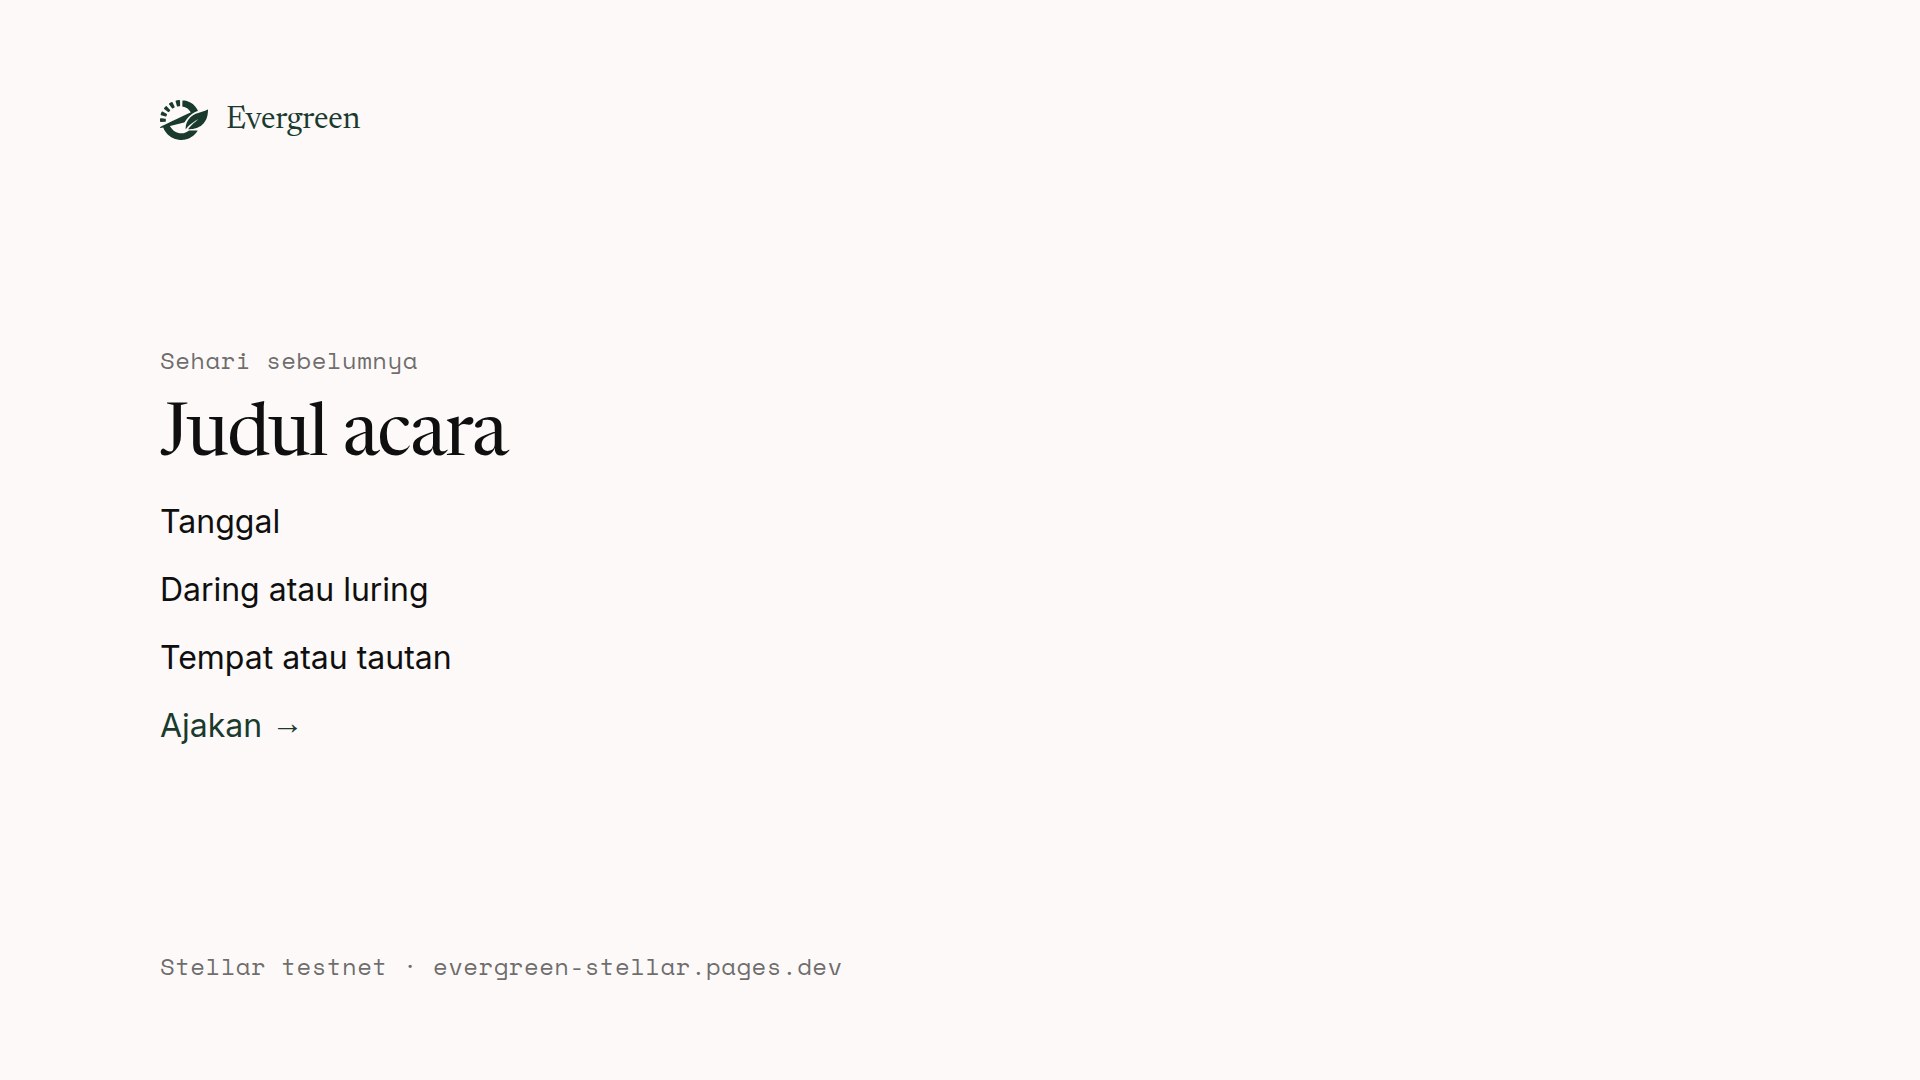
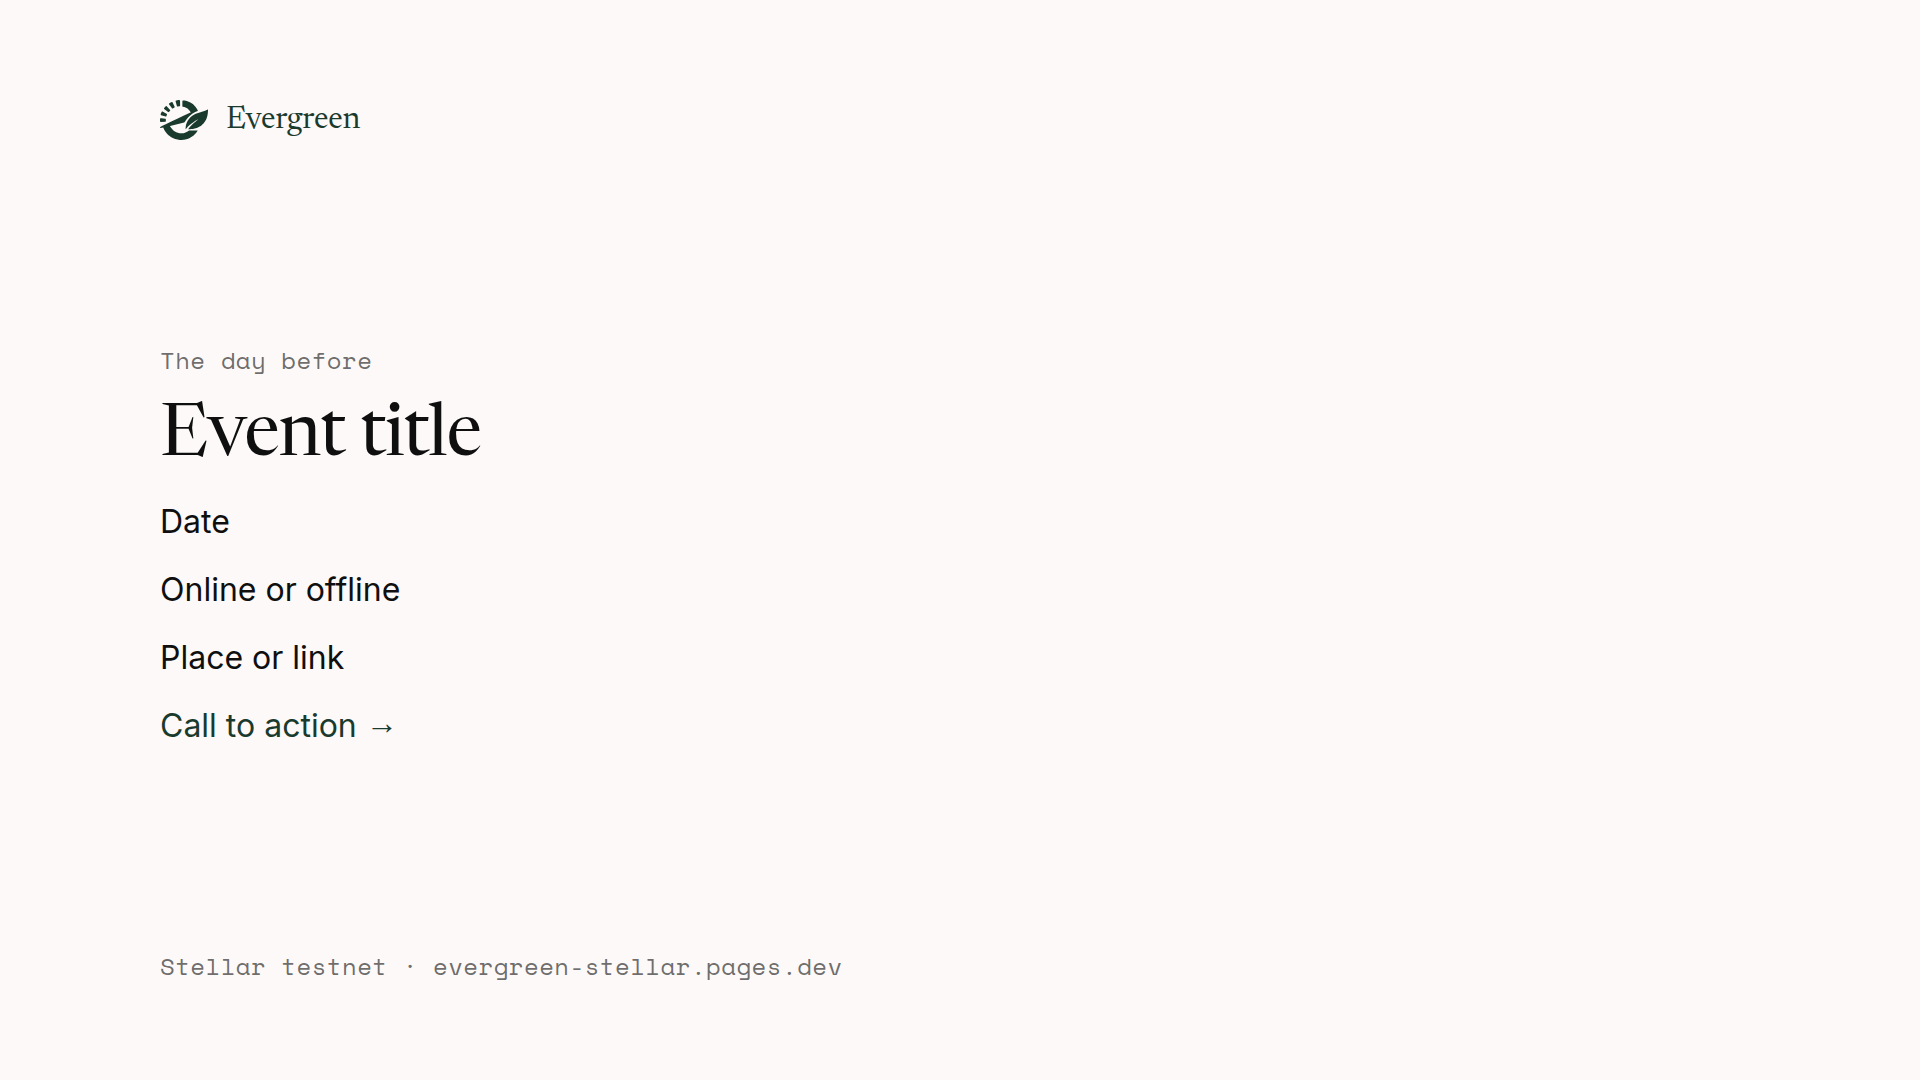
docs: switch SOW 2 workshop templates to English [PH2-E3-09] (#627)
* docs: switch SOW 2 workshop templates to English [PH2-E3-09]

Fatih, 15 Nov 2026: workshop slides and event cards are English.
Placeholders stay placeholders. claims-and-copy.md does not document this copy.

* docs: format the English event-card templates [PH2-E3-09]

---------

Changed region(s): [[0.0625, 0.4583, 0.2188, 0.7028], [0.0625, 0.3056, 0.2812, 0.4278]]

diff --git a/web-reference/design-language/source/templates/event-reminder-landscape.html b/web-reference/design-language/source/templates/event-reminder-landscape.html
@@ -10,7 +10,7 @@
     <script>
       if (location.search.includes('guides')) document.documentElement.classList.add('guides');
     </script>
-    <title>Landscape 1920 × 1080 — Sehari sebelumnya</title>
+    <title>Landscape 1920 × 1080 — The day before</title>
   </head>
   <body>
     <!-- Day-before reminder. Every content line is a placeholder. Replace it; do not invent an event. -->
@@ -32,12 +32,14 @@
         </div>
         <div class="spacer"></div>
         <div style="display: grid; gap: calc(10px * var(--k)); max-width: 36ch">
-          <p class="label muted">Sehari sebelumnya</p>
-          <p class="display" style="max-width: 16ch">Judul acara</p>
-          <p class="lead">Tanggal</p>
-          <p class="lead">Daring atau luring</p>
-          <p class="lead">Tempat atau tautan</p>
-          <p class="lead" style="color: var(--pine)">Ajakan <span aria-hidden="true">→</span></p>
+          <p class="label muted">The day before</p>
+          <p class="display" style="max-width: 16ch">Event title</p>
+          <p class="lead">Date</p>
+          <p class="lead">Online or offline</p>
+          <p class="lead">Place or link</p>
+          <p class="lead" style="color: var(--pine)">
+            Call to action <span aria-hidden="true">→</span>
+          </p>
         </div>
         <div class="spacer"></div>
         <p class="label muted">Stellar testnet · evergreen-stellar.pages.dev</p>

diff --git a/web-reference/design-language/source/templates/event-reminder-square.html b/web-reference/design-language/source/templates/event-reminder-square.html
@@ -10,7 +10,7 @@
     <script>
       if (location.search.includes('guides')) document.documentElement.classList.add('guides');
     </script>
-    <title>Square 1080 × 1080 — Sehari sebelumnya</title>
+    <title>Square 1080 × 1080 — The day before</title>
   </head>
   <body>
     <!-- Day-before reminder. Every content line is a placeholder. Replace it; do not invent an event. -->
@@ -32,12 +32,14 @@
         </div>
         <div class="spacer"></div>
         <div style="display: grid; gap: calc(10px * var(--k)); max-width: 36ch">
-          <p class="label muted">Sehari sebelumnya</p>
-          <p class="display" style="max-width: 16ch">Judul acara</p>
-          <p class="lead">Tanggal</p>
-          <p class="lead">Daring atau luring</p>
-          <p class="lead">Tempat atau tautan</p>
-          <p class="lead" style="color: var(--pine)">Ajakan <span aria-hidden="true">→</span></p>
+          <p class="label muted">The day before</p>
+          <p class="display" style="max-width: 16ch">Event title</p>
+          <p class="lead">Date</p>
+          <p class="lead">Online or offline</p>
+          <p class="lead">Place or link</p>
+          <p class="lead" style="color: var(--pine)">
+            Call to action <span aria-hidden="true">→</span>
+          </p>
         </div>
         <div class="spacer"></div>
         <p class="label muted">Stellar testnet · evergreen-stellar.pages.dev</p>

diff --git a/web-reference/design-language/source/templates/event-reminder-story.html b/web-reference/design-language/source/templates/event-reminder-story.html
@@ -10,7 +10,7 @@
     <script>
       if (location.search.includes('guides')) document.documentElement.classList.add('guides');
     </script>
-    <title>Story 1080 × 1920 — Sehari sebelumnya</title>
+    <title>Story 1080 × 1920 — The day before</title>
   </head>
   <body>
     <!-- Day-before reminder. Every content line is a placeholder. Replace it; do not invent an event. -->
@@ -32,12 +32,14 @@
         </div>
         <div class="spacer"></div>
         <div style="display: grid; gap: calc(10px * var(--k)); max-width: 36ch">
-          <p class="label muted">Sehari sebelumnya</p>
-          <p class="display" style="max-width: 16ch">Judul acara</p>
-          <p class="lead">Tanggal</p>
-          <p class="lead">Daring atau luring</p>
-          <p class="lead">Tempat atau tautan</p>
-          <p class="lead" style="color: var(--pine)">Ajakan <span aria-hidden="true">→</span></p>
+          <p class="label muted">The day before</p>
+          <p class="display" style="max-width: 16ch">Event title</p>
+          <p class="lead">Date</p>
+          <p class="lead">Online or offline</p>
+          <p class="lead">Place or link</p>
+          <p class="lead" style="color: var(--pine)">
+            Call to action <span aria-hidden="true">→</span>
+          </p>
         </div>
         <div class="spacer"></div>
         <p class="label muted">Stellar testnet · evergreen-stellar.pages.dev</p>

diff --git a/web-reference/design-language/source/templates/event-recap-landscape.html b/web-reference/design-language/source/templates/event-recap-landscape.html
@@ -10,7 +10,7 @@
     <script>
       if (location.search.includes('guides')) document.documentElement.classList.add('guides');
     </script>
-    <title>Landscape 1920 × 1080 — Setelah acara</title>
+    <title>Landscape 1920 × 1080 — After the event</title>
   </head>
   <body>
     <!-- Post-event recap. Every content line is a placeholder. No attendance figure, no fee. -->
@@ -32,12 +32,14 @@
         </div>
         <div class="spacer"></div>
         <div style="display: grid; gap: calc(10px * var(--k)); max-width: 36ch">
-          <p class="label muted">Setelah acara</p>
-          <p class="display" style="max-width: 16ch">Judul acara</p>
-          <p class="lead">Tanggal</p>
-          <p class="lead">Daring atau luring</p>
-          <p class="lead">Tempat atau tautan</p>
-          <p class="lead" style="color: var(--pine)">Ajakan <span aria-hidden="true">→</span></p>
+          <p class="label muted">After the event</p>
+          <p class="display" style="max-width: 16ch">Event title</p>
+          <p class="lead">Date</p>
+          <p class="lead">Online or offline</p>
+          <p class="lead">Place or link</p>
+          <p class="lead" style="color: var(--pine)">
+            Call to action <span aria-hidden="true">→</span>
+          </p>
         </div>
         <div class="spacer"></div>
         <p class="label muted">Stellar testnet · evergreen-stellar.pages.dev</p>

diff --git a/web-reference/design-language/source/templates/event-reminder-og.html b/web-reference/design-language/source/templates/event-reminder-og.html
@@ -10,7 +10,7 @@
     <script>
       if (location.search.includes('guides')) document.documentElement.classList.add('guides');
     </script>
-    <title>Link card 1200 × 630 — Sehari sebelumnya</title>
+    <title>Link card 1200 × 630 — The day before</title>
   </head>
   <body>
     <!-- Day-before reminder. Every content line is a placeholder. Replace it; do not invent an event. -->
@@ -32,12 +32,14 @@
         </div>
         <div class="spacer"></div>
         <div style="display: grid; gap: 12px; max-width: 540px">
-          <p class="label muted">Sehari sebelumnya</p>
-          <p class="display" style="max-width: 540px">Judul acara</p>
-          <p class="body">Tanggal</p>
-          <p class="body">Daring atau luring</p>
-          <p class="body">Tempat atau tautan</p>
-          <p class="body" style="color: var(--pine)">Ajakan <span aria-hidden="true">→</span></p>
+          <p class="label muted">The day before</p>
+          <p class="display" style="max-width: 540px">Event title</p>
+          <p class="body">Date</p>
+          <p class="body">Online or offline</p>
+          <p class="body">Place or link</p>
+          <p class="body" style="color: var(--pine)">
+            Call to action <span aria-hidden="true">→</span>
+          </p>
           <p class="label muted">Stellar testnet</p>
           <p class="label muted">evergreen-stellar.pages.dev</p>
         </div>

diff --git a/web-reference/design-language/source/templates/event-recap-square.html b/web-reference/design-language/source/templates/event-recap-square.html
@@ -10,7 +10,7 @@
     <script>
       if (location.search.includes('guides')) document.documentElement.classList.add('guides');
     </script>
-    <title>Square 1080 × 1080 — Setelah acara</title>
+    <title>Square 1080 × 1080 — After the event</title>
   </head>
   <body>
     <!-- Post-event recap. Every content line is a placeholder. No attendance figure, no fee. -->
@@ -32,12 +32,14 @@
         </div>
         <div class="spacer"></div>
         <div style="display: grid; gap: calc(10px * var(--k)); max-width: 36ch">
-          <p class="label muted">Setelah acara</p>
-          <p class="display" style="max-width: 16ch">Judul acara</p>
-          <p class="lead">Tanggal</p>
-          <p class="lead">Daring atau luring</p>
-          <p class="lead">Tempat atau tautan</p>
-          <p class="lead" style="color: var(--pine)">Ajakan <span aria-hidden="true">→</span></p>
+          <p class="label muted">After the event</p>
+          <p class="display" style="max-width: 16ch">Event title</p>
+          <p class="lead">Date</p>
+          <p class="lead">Online or offline</p>
+          <p class="lead">Place or link</p>
+          <p class="lead" style="color: var(--pine)">
+            Call to action <span aria-hidden="true">→</span>
+          </p>
         </div>
         <div class="spacer"></div>
         <p class="label muted">Stellar testnet · evergreen-stellar.pages.dev</p>

diff --git a/web-reference/design-language/source/templates/event-recap-story.html b/web-reference/design-language/source/templates/event-recap-story.html
@@ -10,7 +10,7 @@
     <script>
       if (location.search.includes('guides')) document.documentElement.classList.add('guides');
     </script>
-    <title>Story 1080 × 1920 — Setelah acara</title>
+    <title>Story 1080 × 1920 — After the event</title>
   </head>
   <body>
     <!-- Post-event recap. Every content line is a placeholder. No attendance figure, no fee. -->
@@ -32,12 +32,14 @@
         </div>
         <div class="spacer"></div>
         <div style="display: grid; gap: calc(10px * var(--k)); max-width: 36ch">
-          <p class="label muted">Setelah acara</p>
-          <p class="display" style="max-width: 16ch">Judul acara</p>
-          <p class="lead">Tanggal</p>
-          <p class="lead">Daring atau luring</p>
-          <p class="lead">Tempat atau tautan</p>
-          <p class="lead" style="color: var(--pine)">Ajakan <span aria-hidden="true">→</span></p>
+          <p class="label muted">After the event</p>
+          <p class="display" style="max-width: 16ch">Event title</p>
+          <p class="lead">Date</p>
+          <p class="lead">Online or offline</p>
+          <p class="lead">Place or link</p>
+          <p class="lead" style="color: var(--pine)">
+            Call to action <span aria-hidden="true">→</span>
+          </p>
         </div>
         <div class="spacer"></div>
         <p class="label muted">Stellar testnet · evergreen-stellar.pages.dev</p>

diff --git a/web-reference/design-language/source/templates/event-announce-landscape.html b/web-reference/design-language/source/templates/event-announce-landscape.html
@@ -10,7 +10,7 @@
     <script>
       if (location.search.includes('guides')) document.documentElement.classList.add('guides');
     </script>
-    <title>Landscape 1920 × 1080 — Pengumuman</title>
+    <title>Landscape 1920 × 1080 — Announcement</title>
   </head>
   <body>
     <!-- Announcement. Every content line is a placeholder. Replace it; do not invent an event. -->
@@ -32,12 +32,14 @@
         </div>
         <div class="spacer"></div>
         <div style="display: grid; gap: calc(10px * var(--k)); max-width: 36ch">
-          <p class="label muted">Pengumuman</p>
-          <p class="display" style="max-width: 16ch">Judul acara</p>
-          <p class="lead">Tanggal</p>
-          <p class="lead">Daring atau luring</p>
-          <p class="lead">Tempat atau tautan</p>
-          <p class="lead" style="color: var(--pine)">Ajakan <span aria-hidden="true">→</span></p>
+          <p class="label muted">Announcement</p>
+          <p class="display" style="max-width: 16ch">Event title</p>
+          <p class="lead">Date</p>
+          <p class="lead">Online or offline</p>
+          <p class="lead">Place or link</p>
+          <p class="lead" style="color: var(--pine)">
+            Call to action <span aria-hidden="true">→</span>
+          </p>
         </div>
         <div class="spacer"></div>
         <p class="label muted">Stellar testnet · evergreen-stellar.pages.dev</p>

diff --git a/web-reference/design-language/source/templates/event-recap-og.html b/web-reference/design-language/source/templates/event-recap-og.html
@@ -10,7 +10,7 @@
     <script>
       if (location.search.includes('guides')) document.documentElement.classList.add('guides');
     </script>
-    <title>Link card 1200 × 630 — Setelah acara</title>
+    <title>Link card 1200 × 630 — After the event</title>
   </head>
   <body>
     <!-- Post-event recap. Every content line is a placeholder. No attendance figure, no fee. -->
@@ -32,12 +32,14 @@
         </div>
         <div class="spacer"></div>
         <div style="display: grid; gap: 12px; max-width: 540px">
-          <p class="label muted">Setelah acara</p>
-          <p class="display" style="max-width: 540px">Judul acara</p>
-          <p class="body">Tanggal</p>
-          <p class="body">Daring atau luring</p>
-          <p class="body">Tempat atau tautan</p>
-          <p class="body" style="color: var(--pine)">Ajakan <span aria-hidden="true">→</span></p>
+          <p class="label muted">After the event</p>
+          <p class="display" style="max-width: 540px">Event title</p>
+          <p class="body">Date</p>
+          <p class="body">Online or offline</p>
+          <p class="body">Place or link</p>
+          <p class="body" style="color: var(--pine)">
+            Call to action <span aria-hidden="true">→</span>
+          </p>
           <p class="label muted">Stellar testnet</p>
           <p class="label muted">evergreen-stellar.pages.dev</p>
         </div>

diff --git a/web-reference/design-language/source/templates/event-announce-square.html b/web-reference/design-language/source/templates/event-announce-square.html
@@ -10,7 +10,7 @@
     <script>
       if (location.search.includes('guides')) document.documentElement.classList.add('guides');
     </script>
-    <title>Square 1080 × 1080 — Pengumuman</title>
+    <title>Square 1080 × 1080 — Announcement</title>
   </head>
   <body>
     <!-- Announcement. Every content line is a placeholder. Replace it; do not invent an event. -->
@@ -32,12 +32,14 @@
         </div>
         <div class="spacer"></div>
         <div style="display: grid; gap: calc(10px * var(--k)); max-width: 36ch">
-          <p class="label muted">Pengumuman</p>
-          <p class="display" style="max-width: 16ch">Judul acara</p>
-          <p class="lead">Tanggal</p>
-          <p class="lead">Daring atau luring</p>
-          <p class="lead">Tempat atau tautan</p>
-          <p class="lead" style="color: var(--pine)">Ajakan <span aria-hidden="true">→</span></p>
+          <p class="label muted">Announcement</p>
+          <p class="display" style="max-width: 16ch">Event title</p>
+          <p class="lead">Date</p>
+          <p class="lead">Online or offline</p>
+          <p class="lead">Place or link</p>
+          <p class="lead" style="color: var(--pine)">
+            Call to action <span aria-hidden="true">→</span>
+          </p>
         </div>
         <div class="spacer"></div>
         <p class="label muted">Stellar testnet · evergreen-stellar.pages.dev</p>

diff --git a/web-reference/design-language/source/templates/event-announce-story.html b/web-reference/design-language/source/templates/event-announce-story.html
@@ -10,7 +10,7 @@
     <script>
       if (location.search.includes('guides')) document.documentElement.classList.add('guides');
     </script>
-    <title>Story 1080 × 1920 — Pengumuman</title>
+    <title>Story 1080 × 1920 — Announcement</title>
   </head>
   <body>
     <!-- Announcement. Every content line is a placeholder. Replace it; do not invent an event. -->
@@ -32,12 +32,14 @@
         </div>
         <div class="spacer"></div>
         <div style="display: grid; gap: calc(10px * var(--k)); max-width: 36ch">
-          <p class="label muted">Pengumuman</p>
-          <p class="display" style="max-width: 16ch">Judul acara</p>
-          <p class="lead">Tanggal</p>
-          <p class="lead">Daring atau luring</p>
-          <p class="lead">Tempat atau tautan</p>
-          <p class="lead" style="color: var(--pine)">Ajakan <span aria-hidden="true">→</span></p>
+          <p class="label muted">Announcement</p>
+          <p class="display" style="max-width: 16ch">Event title</p>
+          <p class="lead">Date</p>
+          <p class="lead">Online or offline</p>
+          <p class="lead">Place or link</p>
+          <p class="lead" style="color: var(--pine)">
+            Call to action <span aria-hidden="true">→</span>
+          </p>
         </div>
         <div class="spacer"></div>
         <p class="label muted">Stellar testnet · evergreen-stellar.pages.dev</p>

diff --git a/web-reference/design-language/source/templates/event-announce-og.html b/web-reference/design-language/source/templates/event-announce-og.html
@@ -10,7 +10,7 @@
     <script>
       if (location.search.includes('guides')) document.documentElement.classList.add('guides');
     </script>
-    <title>Link card 1200 × 630 — Pengumuman</title>
+    <title>Link card 1200 × 630 — Announcement</title>
   </head>
   <body>
     <!-- Announcement. Every content line is a placeholder. Replace it; do not invent an event. -->
@@ -32,12 +32,14 @@
         </div>
         <div class="spacer"></div>
         <div style="display: grid; gap: 12px; max-width: 540px">
-          <p class="label muted">Pengumuman</p>
-          <p class="display" style="max-width: 540px">Judul acara</p>
-          <p class="body">Tanggal</p>
-          <p class="body">Daring atau luring</p>
-          <p class="body">Tempat atau tautan</p>
-          <p class="body" style="color: var(--pine)">Ajakan <span aria-hidden="true">→</span></p>
+          <p class="label muted">Announcement</p>
+          <p class="display" style="max-width: 540px">Event title</p>
+          <p class="body">Date</p>
+          <p class="body">Online or offline</p>
+          <p class="body">Place or link</p>
+          <p class="body" style="color: var(--pine)">
+            Call to action <span aria-hidden="true">→</span>
+          </p>
           <p class="label muted">Stellar testnet</p>
           <p class="label muted">evergreen-stellar.pages.dev</p>
         </div>
